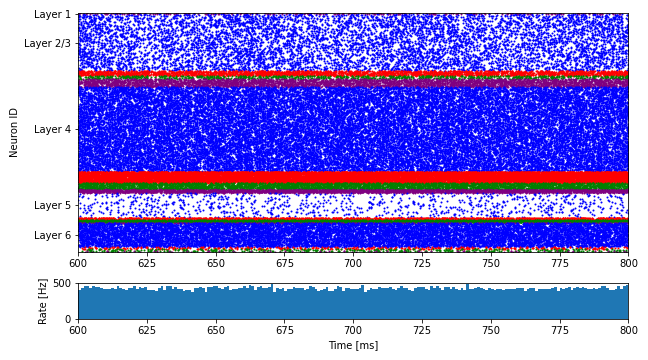
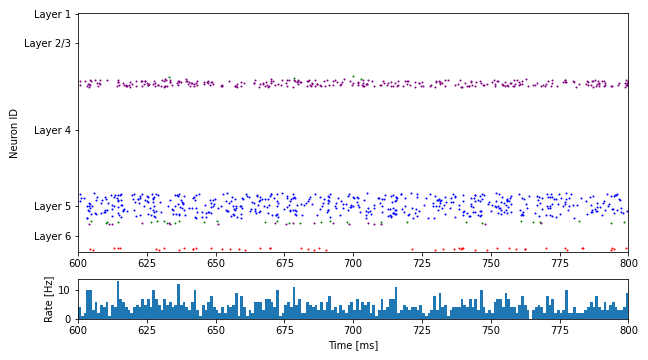
updated

diff --git a/simulation/setup.py b/simulation/setup.py
@@ -16,8 +16,8 @@ def setup():
         'verbose'    :  True,                                                      # Flag for verbose function output
         'K_scale'    :     .18,                                                      # Scaling factor for connections
         'syn_scale'  :     1.,                                                      # Scaling factor for synaptic strenghts
-        'N_scale'    :     .05,                                                      # Scaling factor for the number of neurons
-        'R_scale'    :     1,                                                      # Fraction of neurons to be recorded from
+        'N_scale'    :     .25,                                                      # Scaling factor for the number of neurons
+        'R_scale'    :     0.1,                                                      # Fraction of neurons to be recorded from
         'opt_run'    :   False,                                                      # Flag for optimizer run, run minimal settings
         'num_neurons': np.array([776, 47386, 3876, 2807, 6683, 70387, 9502, 5455,   # Number of neurons by population
                           2640, 20740, 2186, 1958, 410, 19839, 1869, 1869, 325]),
@@ -98,13 +98,15 @@ def setup():
     #######################################
     ## Background stimulation parameters ##
     #######################################
-    params['ext_rate']    = 2.3442979469040703
+    
+    
+    params['ext_rate']    = 0.5
     params['ext_nodes']   = np.array([1400, 1000, 1400, 1200, 1100, 1500, 1800, 1800, 1800, 1700, 1900, 1900, 1900, 2600, 2100, 2100, 2100])
-    params['ext_weights'] = [4.311124610575128, 
-                1.4665559306452935, 4.0181781127444625, 2.1542299864109644, 6.265895663424481, 
-                4.366433277087404, 4.014640121360436, 4.296509209462713, 1.2953587369362691, 
-                0.8636802481932396, 2.2859833676908963, 6.304064358324794, 6.198631164117885, 
-                6.914440202512495, 1.6023059555735448, 1.7889209987080614, 1.5831096761074437]
+    params['ext_weights'] = [3.50116807644665, 
+    6.336417664751055, 5.514928282091003, 7.0, 6.097252063605575, 
+    2.5195416197244715, 3.6646617933399432, 1e-24, 1.1040190824794214,
+    7.0, 2.6157287241319502, 2.056829948486045, 2.666098157712284, 
+    2.9453831508460953, 7.0, 1.7997850260998796, 2.1810249254192624]
     
     ## Write parameters to file so the network can read it in
     with open("params", 'wb') as f:

diff --git a/simulation/optimize_bkg_input.py b/simulation/optimize_bkg_input.py
@@ -21,6 +21,7 @@ def objective_function(**args):
     ## Change values and run the function with different parameters
     params['ext_rate'] = args['ext_rate']
     params['ext_weights'] = np.array([args[x] for x in args if 'weight' in x])
+    params['K_scale'] = args['K_scale']
 
     ## Write parameters to file so the network can read it in
     with open("params", 'wb') as f:
@@ -35,9 +36,11 @@ def objective_function(**args):
     
     process = subprocess.Popen(command.split(), stdout=subprocess.PIPE, stderr=subprocess.PIPE, 
                                cwd=cwd, env=env)
-    process.wait()
-    
+    return_code = process.wait()
+    # print("Script exited with return code:", return_code)
     output, error = process.communicate()
+    # print("Standard output:\n", output.decode())
+    # print("Error output:\n", error.decode())
     
     # Read the results from the file
     with open("sim_results", 'rb') as f:
@@ -96,6 +99,7 @@ if __name__ == '__main__':
     for i in range(17):
         #pbounds[f'pop{i}_stim_nodes'] = (500,2000)
         pbounds[f'pop{i}_weights'] = (1e-24, 7e0)
+    pbounds['K_scale'] = (0.15,1)
     
     # ## Define the Bayesian optimizer
     # optimizer = BayesianOptimization(

diff --git a/simulation/run.py b/simulation/run.py
@@ -33,7 +33,7 @@ def run_network():
     ########################
 
     nest.ResetKernel()
-    nest.local_num_threads = 1 ## adapt if necessary
+    nest.local_num_threads = 64 ## adapt if necessary
     nest.print_time = False
     resolution = 0.1
     nest.resolution = resolution
@@ -53,7 +53,6 @@ def run_network():
     num_neurons       = params['num_neurons']  * params['N_scale']
     ext_rates         = params['ext_nodes'] * params['ext_rate']
     
-    print(f"Running simulation with {ext_rates}")
     ########################
     ## Create the network ##
     ########################
